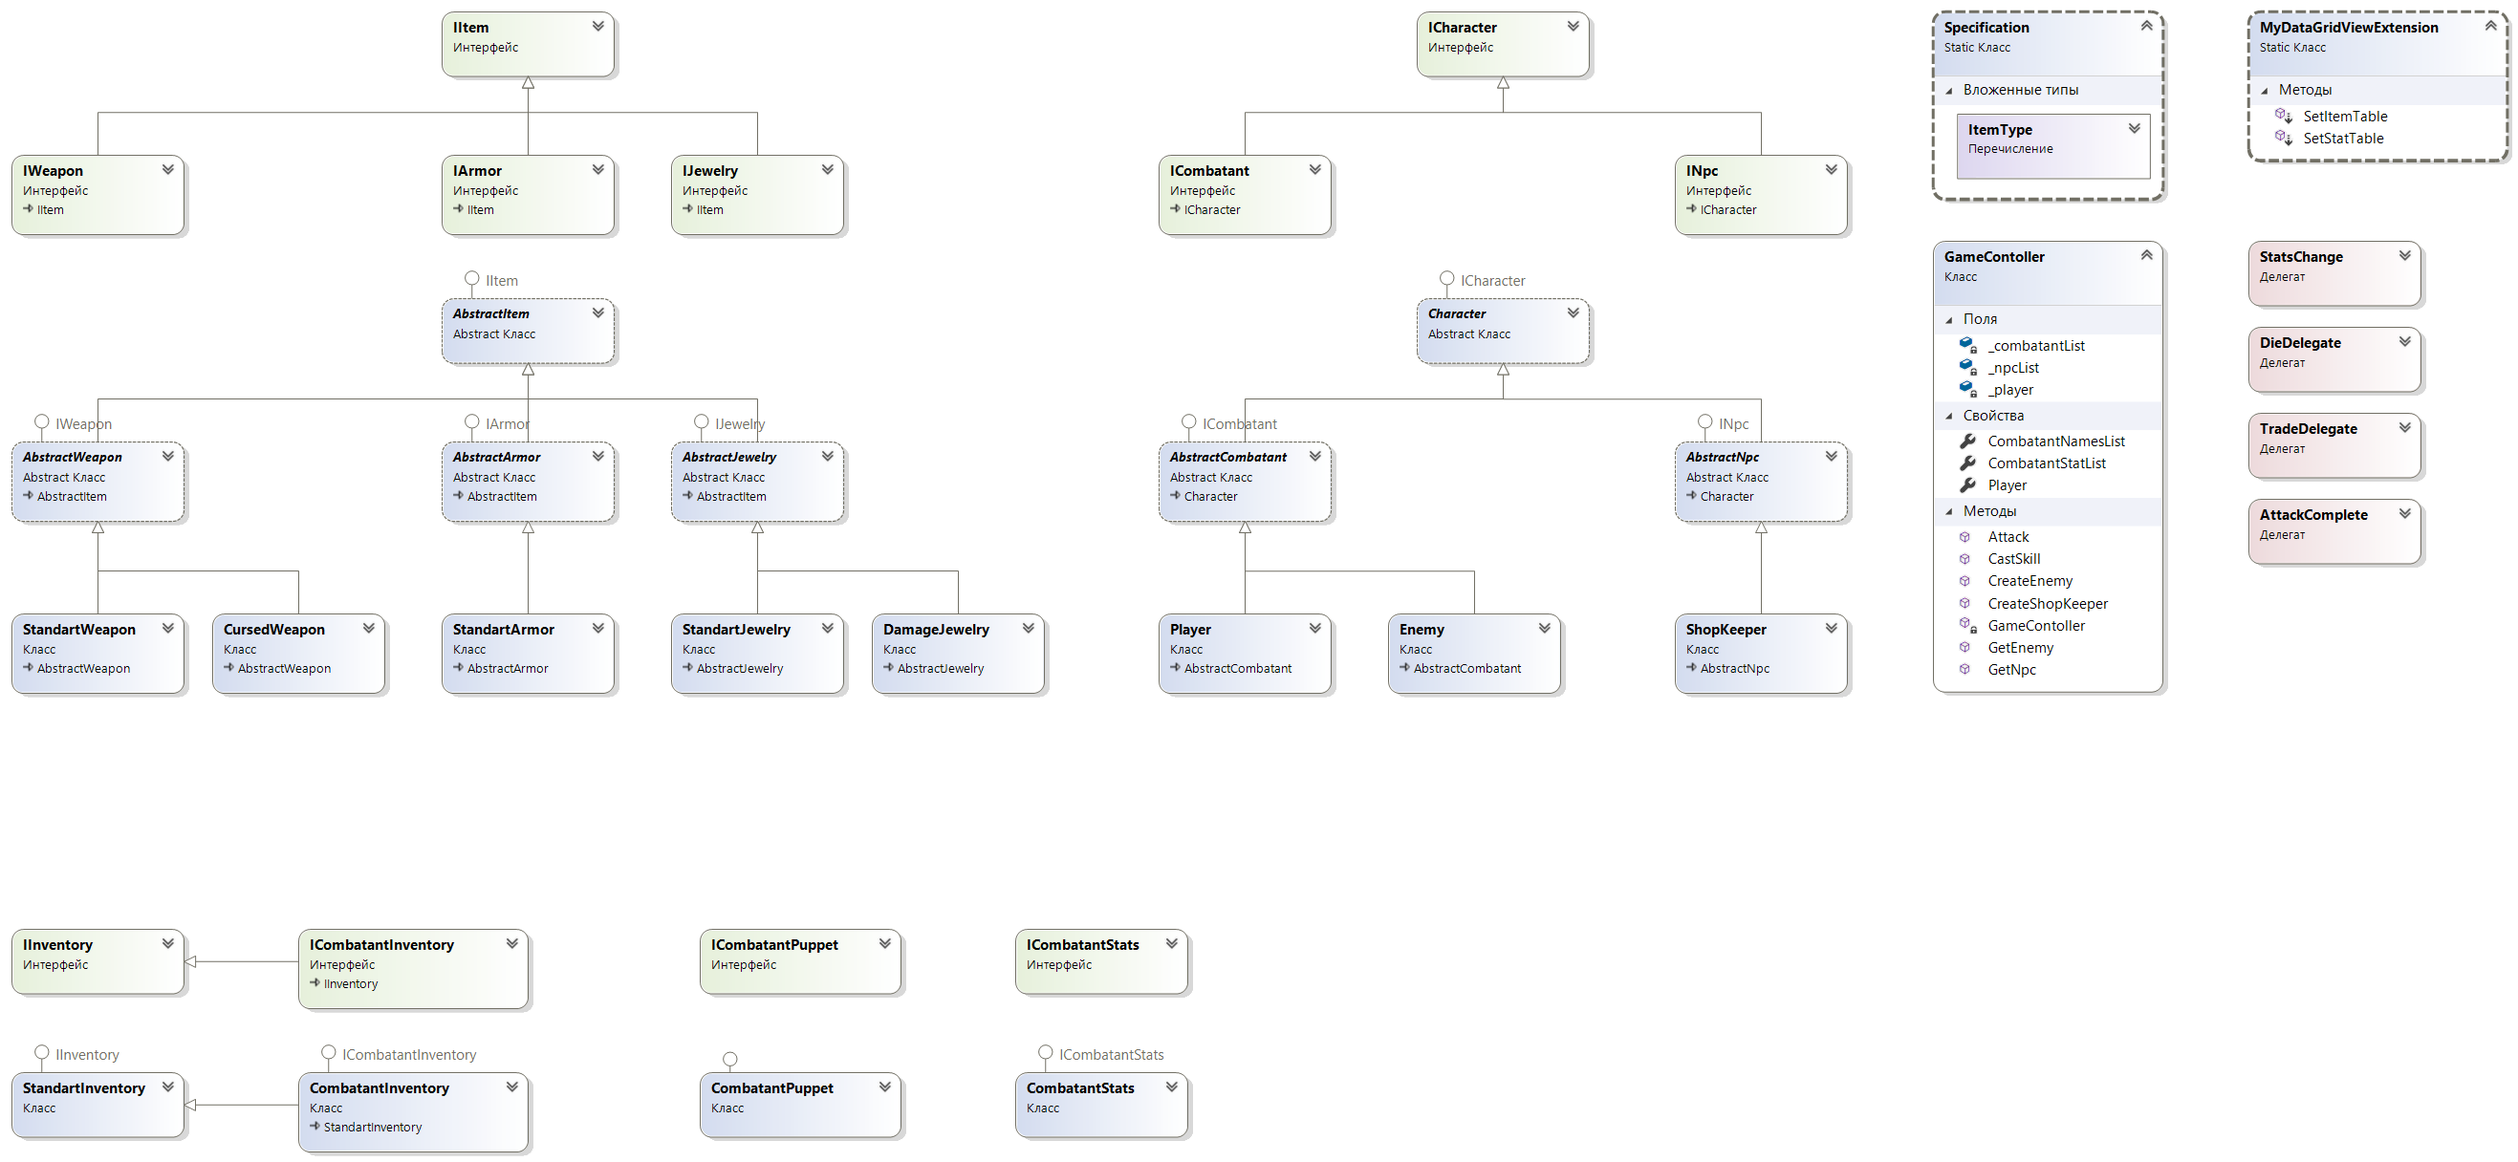
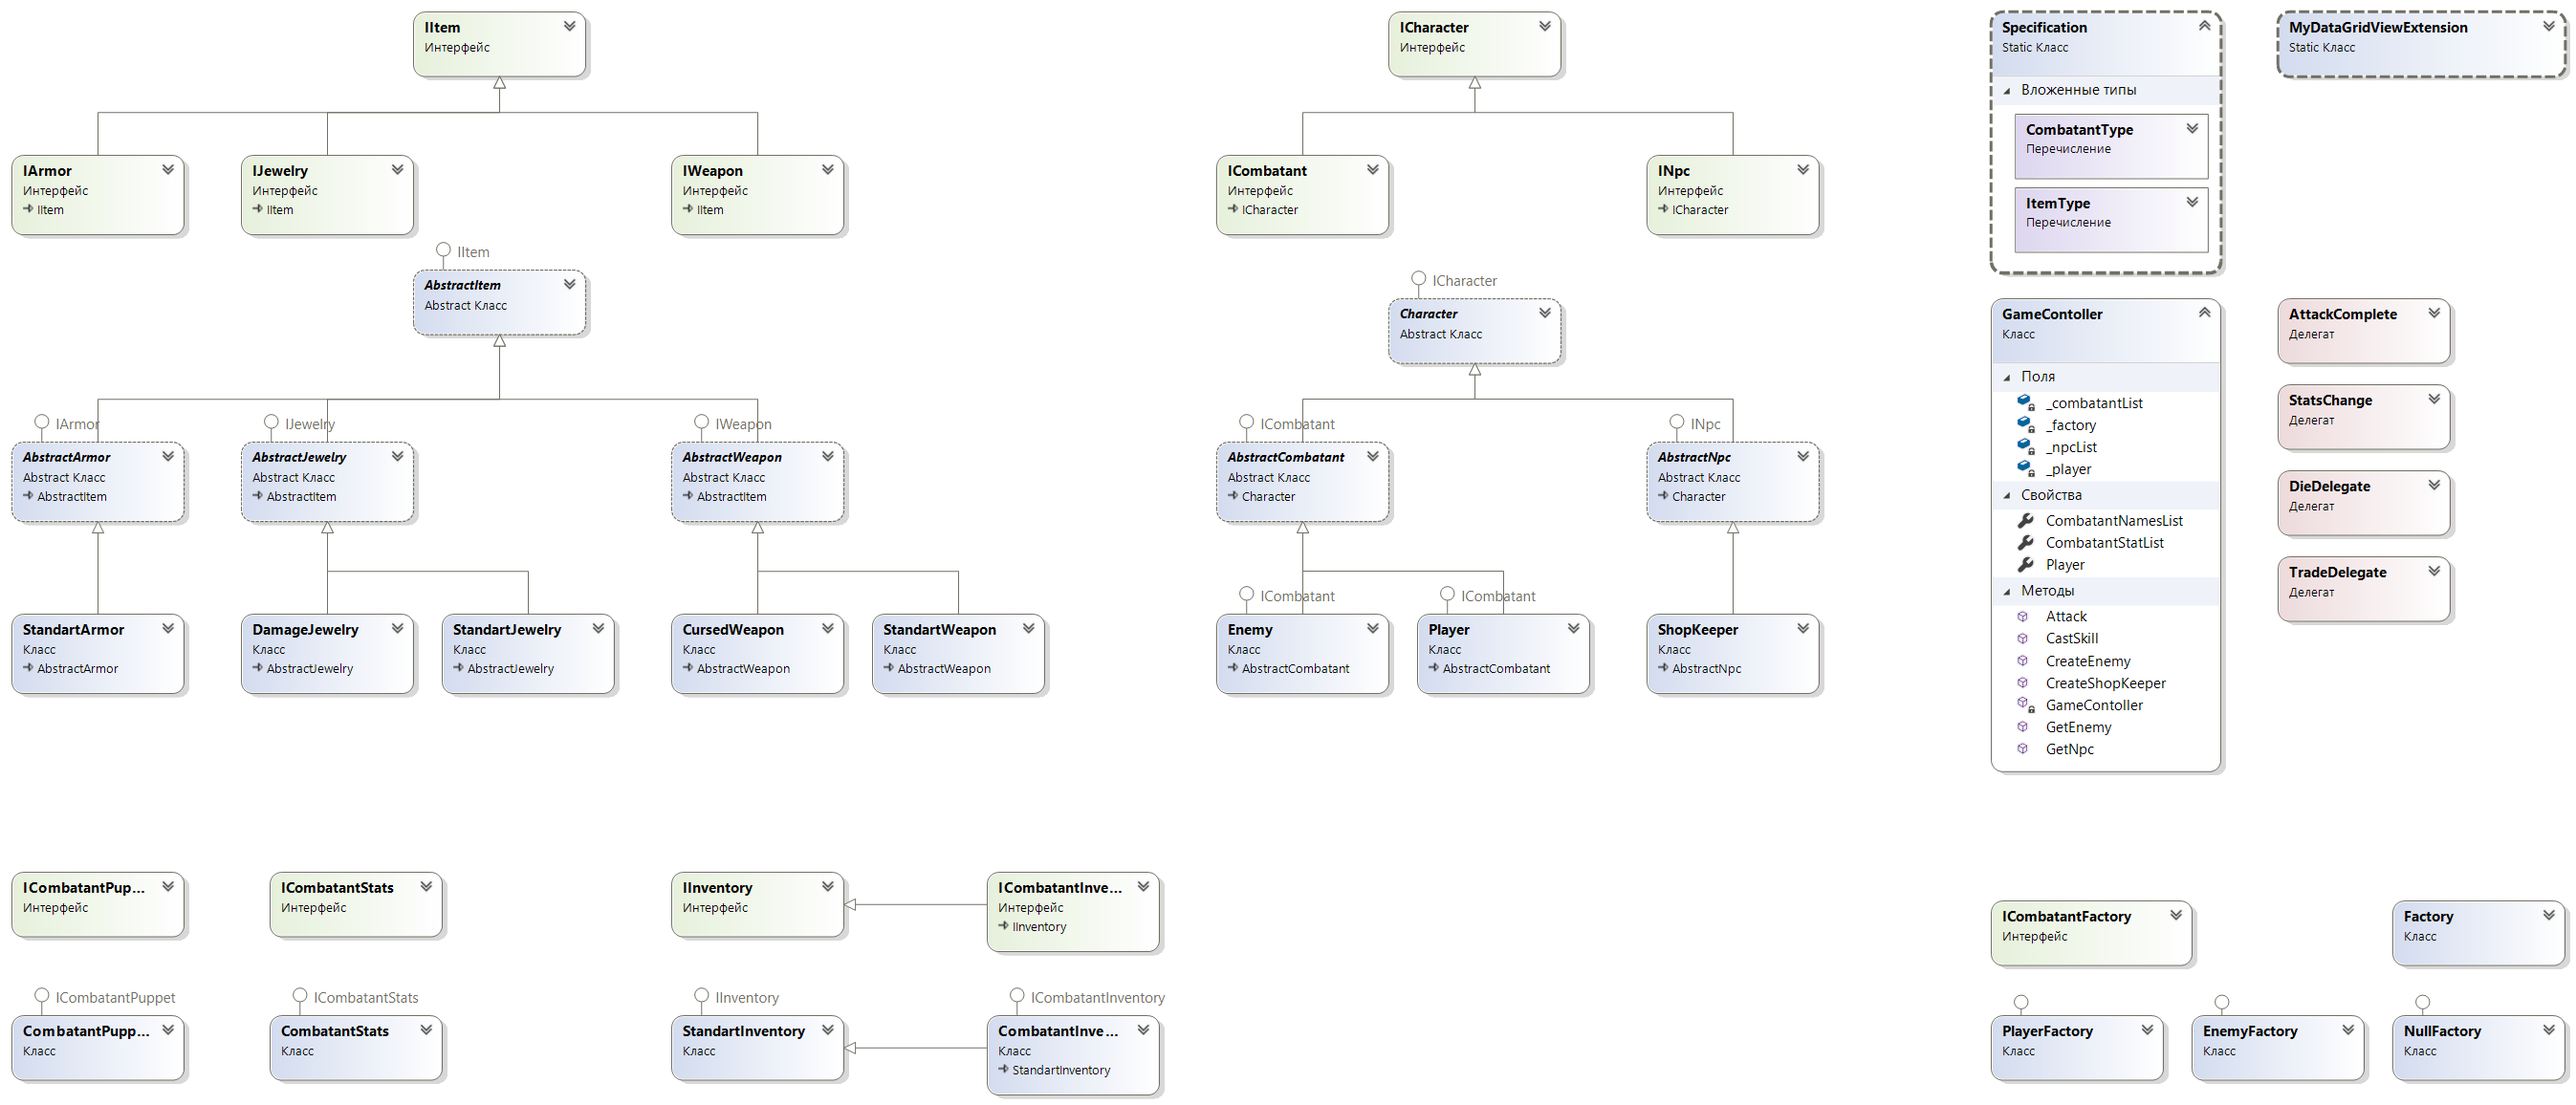
Исправил диаграму классов 3

diff --git a/Medieval_Knight_WinForms/Model/Enum/Specification.cs b/Medieval_Knight_WinForms/Model/Enum/Specification.cs
@@ -9,12 +9,6 @@
             ArmorChest,
             Jewelry
         }
-        public enum CharacterType
-        {
-            Player,
-            ShopKeeper,
-            Enemy
-        }
         public enum CombatantType
         {
             Player,
